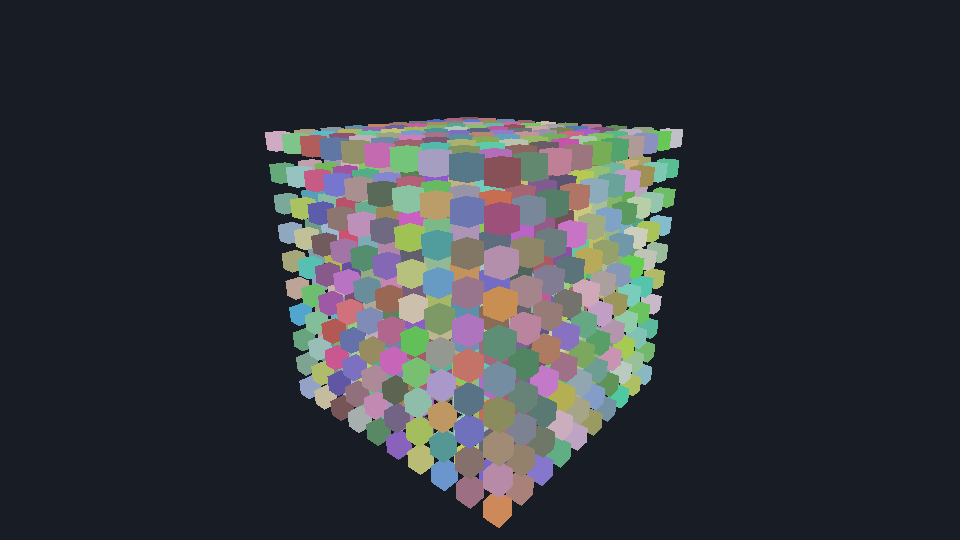
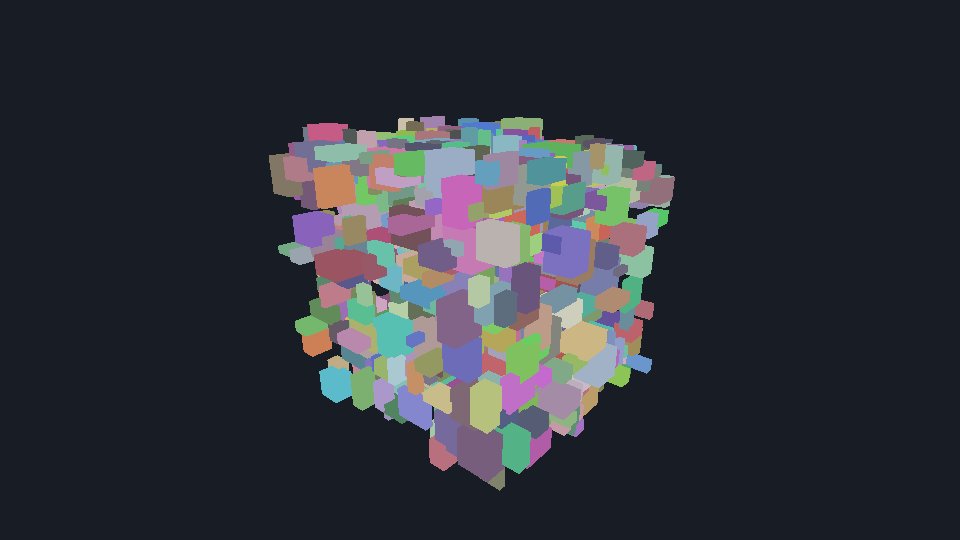
Scatter the boxes at random, with varied sizes
A regular grid flatters occlusion culling: every occluder is the same size and
sits exactly behind the one in front, which is the easiest case there is. A
thousand boxes at random positions with random per-axis sizes gives irregular
gaps, and those are what the technique actually has to cope with. The seed is
fixed, because the benchmark compares medians between runs and a clock-seeded
layout would move the numbers with no way to tell that from a real change.

It changes the picture in both directions. There is more mutual occlusion, so
the per-object pass now culls 77% rather than 66%. But irregular sizes make nine
corner samples a worse proxy for a box, so what it wrongly discards goes from 3%
of the screen to 7.5%, and each pass costs about a third more because fewer
samples exit early and the BVH is less tidy.

The slab view replaces the old middle-layer one, which indexed geomIDs assuming
a grid and means nothing now; it takes the boxes whose centre falls in a band
around the middle instead.

One thing this scene surfaced that the grid did not: the single-ray and 8-wide
paths disagree, reproducibly, on two boxes out of a thousand. They are separate
kernels inside Embree and they differ on grazing hits. It does not matter for
culling, but the packet path is not a drop-in replacement where the answer has to
be bit-identical.

Changed region(s): [[0.25, 0.2074, 0.7188, 0.9778]]

diff --git a/OcclusionCulling/Program.cs b/OcclusionCulling/Program.cs
@@ -12,9 +12,11 @@ namespace OcclusionCulling
 	/// </summary>
 	internal static class Program
 	{
-		private const int SideCount = 10;                 // 10^3 = 1000 boxes
-		private const float BoxSize = 1.0f;
-		private const float Spacing = 1.8f;               // centre-to-centre, in box sizes
+		private const int BoxCount = 1000;
+		private const float VolumeExtent = 9.0f;          // half the side of the cube they fill
+		private const float MinBoxSize = 0.4f;
+		private const float MaxBoxSize = 2.4f;
+		private const int Seed = 20260811;                // fixed, so the scene is the same every run
 
 		private const int CullWidth = 320;                // resolution of the visibility-buffer pass
 		private const int CullHeight = 180;
@@ -28,11 +30,11 @@ namespace OcclusionCulling
 		{
 			bool images = args.Contains("--images");
 
-			using var scene = new Scene(SideCount, BoxSize, Spacing);
+			using var scene = new Scene(BoxCount, VolumeExtent, MinBoxSize, MaxBoxSize, Seed);
 
-			// Outside the grid, looking at its centre, close enough that the near faces hide
-			// most of the interior. That is the situation occlusion culling exists for.
-			float extent = BoxSize * Spacing * (SideCount - 1) * 0.5f;
+			// Outside the cloud, looking at its centre, close enough that the near boxes hide
+			// much of what is behind them. That is the situation occlusion culling exists for.
+			float extent = VolumeExtent;
 			var camera = new Camera(
 				position: new Vector3(extent * 2.5f, extent * 1.4f, extent * 2.9f),
 				target: Vector3.Zero,
@@ -41,7 +43,7 @@ namespace OcclusionCulling
 				near: 0.1f,
 				far: extent * 20.0f);
 
-			Console.WriteLine($"Scene          : {scene.BoxCount:N0} boxes ({SideCount}x{SideCount}x{SideCount}), {scene.TriangleCount:N0} triangles, one geometry each");
+			Console.WriteLine($"Scene          : {scene.BoxCount:N0} boxes scattered at random, sizes {MinBoxSize}..{MaxBoxSize}, {scene.TriangleCount:N0} triangles, one geometry each");
 			Console.WriteLine($"Logical cores  : {Environment.ProcessorCount}");
 			Console.WriteLine($"Widest packet  : {scene.MaxPacketWidth} rays (asked of the device, not assumed)");
 			Console.WriteLine();
@@ -237,21 +239,20 @@ namespace OcclusionCulling
 		private const uint Embree_INVALID = uint.MaxValue;
 
 		/// <summary>
-		/// A horizontal slice through the middle layer of the grid, seen from above. Boxes the
-		/// pass kept are bright, boxes it discarded are dark, and the camera is the cross.
+		/// A horizontal slab through the middle of the cloud, seen from above. Boxes the pass
+		/// kept are bright, boxes it discarded are dark, and the camera is the cross.
 		/// </summary>
 		/// <remarks>
-		/// One layer, not all ten. Projecting the whole grid onto the ground plane stacks every
-		/// layer into the same cell, so the picture would show one arbitrary layer's verdict and
-		/// look like the culling was deciding at random.
+		/// A slab rather than everything: projecting the whole cloud onto the ground plane piles
+		/// boxes from every height into the same pixels, and the picture would look like the
+		/// culling was deciding at random.
 		/// </remarks>
 		private static void WriteSlice(Scene scene, Camera camera, bool[] visible, string path)
 		{
 			const int Width = 720;
 			const int Height = 720;
 
-			float extent = BoxSize * Spacing * (SideCount - 1) * 0.5f;
-			float span = extent * 3.2f;
+			float span = scene.Extent * 3.2f;
 
 			var pixels = new byte[Width * Height * 3];
 			for (int i = 0; i < pixels.Length; i += 3)
@@ -259,13 +260,13 @@ namespace OcclusionCulling
 				pixels[i] = 18; pixels[i + 1] = 20; pixels[i + 2] = 26;
 			}
 
-			// Only the middle layer: geomIDs run x fastest, then y, then z.
-			int layer = SideCount / 2;
-			int perLayer = SideCount;
+			// Only boxes whose centre falls in the middle band of the volume.
+			float band = scene.Extent * 0.18f;
 
 			for (int box = 0; box < scene.BoxCount; box++)
 			{
-				if ((box / perLayer) % SideCount != layer)
+				float centreY = (scene.Min[box].Y + scene.Max[box].Y) * 0.5f;
+				if (MathF.Abs(centreY) > band)
 				{
 					continue;
 				}

diff --git a/OcclusionCulling/Scene.cs b/OcclusionCulling/Scene.cs
@@ -14,12 +14,21 @@ namespace OcclusionCulling
 	{
 		private Device device;
 
-		public Scene(int sideCount, float boxSize, float spacing)
+		/// <param name="boxCount">How many boxes to scatter.</param>
+		/// <param name="extent">Half the side of the cube they are scattered in.</param>
+		/// <param name="minSize">Smallest box edge.</param>
+		/// <param name="maxSize">Largest box edge.</param>
+		/// <param name="seed">
+		/// Fixed, and it has to be. The benchmark compares medians between runs, so the scene
+		/// must be the same scene every time; a clock-seeded layout would move the numbers around
+		/// and there would be no way to tell that from a real change.
+		/// </param>
+		public Scene(int boxCount, float extent, float minSize, float maxSize, int seed)
 		{
-			this.SideCount = sideCount;
-			this.BoxCount = sideCount * sideCount * sideCount;
-			this.Min = new Vector3[this.BoxCount];
-			this.Max = new Vector3[this.BoxCount];
+			this.BoxCount = boxCount;
+			this.Extent = extent;
+			this.Min = new Vector3[boxCount];
+			this.Max = new Vector3[boxCount];
 
 			this.device = Embree.NewDevice(null);
 			if (this.device.IsNull)
@@ -35,24 +44,27 @@ namespace OcclusionCulling
 			Embree.SetSceneFlags(this.Handle, SceneFlags.None);
 			Embree.SetSceneBuildQuality(this.Handle, BuildQuality.High);
 
-			float half = boxSize * 0.5f;
-			float step = boxSize * spacing;
-			float origin = -step * (sideCount - 1) * 0.5f;
+			// Scattered at random through the volume, each with its own size along each axis, so
+			// no two boxes are alike and nothing lines up. A regular grid makes occlusion culling
+			// look better than it is: every occluder is the same size and sits exactly behind the
+			// one in front, which is the easiest case there is.
+			var random = new Random(seed);
 
-			int index = 0;
-			for (int z = 0; z < sideCount; z++)
+			for (int i = 0; i < boxCount; i++)
 			{
-				for (int y = 0; y < sideCount; y++)
-				{
-					for (int x = 0; x < sideCount; x++)
-					{
-						var center = new Vector3(origin + (x * step), origin + (y * step), origin + (z * step));
-						this.Min[index] = center - new Vector3(half);
-						this.Max[index] = center + new Vector3(half);
-						this.AddBox(this.Min[index], this.Max[index]);
-						index++;
-					}
-				}
+				var centre = new Vector3(
+					Lerp(random, -extent, extent),
+					Lerp(random, -extent, extent),
+					Lerp(random, -extent, extent));
+
+				var half = new Vector3(
+					Lerp(random, minSize, maxSize),
+					Lerp(random, minSize, maxSize),
+					Lerp(random, minSize, maxSize)) * 0.5f;
+
+				this.Min[i] = centre - half;
+				this.Max[i] = centre + half;
+				this.AddBox(this.Min[i], this.Max[i]);
 			}
 
 			Embree.CommitScene(this.Handle);
@@ -83,8 +95,8 @@ namespace OcclusionCulling
 			: Embree.GetDeviceProperty(this.device, DeviceProperty.NativeRay4Supported) != 0 ? 4
 			: 1;
 
-		/// <summary>Gets the number of boxes per axis.</summary>
-		public int SideCount { get; }
+		/// <summary>Gets half the side of the cube the boxes are scattered in.</summary>
+		public float Extent { get; }
 
 		/// <summary>Gets the total number of boxes, which is also the number of geomIDs.</summary>
 		public int BoxCount { get; }
@@ -97,6 +109,9 @@ namespace OcclusionCulling
 
 		/// <summary>Gets the total triangle count.</summary>
 		public int TriangleCount => this.BoxCount * 12;
+
+		private static float Lerp(Random random, float min, float max) =>
+			min + ((max - min) * (float)random.NextDouble());
 
 		public void Dispose()
 		{

diff --git a/OcclusionCulling/README.md b/OcclusionCulling/README.md
@@ -6,9 +6,16 @@ else.
 
 ![The scene](docs/scene.png)
 
-A 10×10×10 grid of boxes — 1,000 objects, 12,000 triangles, one Embree geometry each so every
-box has its own `geomID`. The camera sits outside looking in, which is the situation occlusion
-culling exists for: the outer shell hides most of the interior.
+A thousand boxes scattered at random through a cube, each with its own size on each axis, 12,000
+triangles, one Embree geometry per box so every one has its own `geomID`. The layout comes from a
+fixed seed, so the scene is the same scene on every run — the benchmark compares medians between
+runs and a clock-seeded layout would move the numbers with no way to tell that from a real
+change.
+
+Scattered rather than gridded on purpose. A regular grid flatters occlusion culling: every
+occluder is the same size and sits exactly behind the one in front, which is the easiest case
+there is. Random sizes and positions give irregular gaps, and those are what the technique
+actually has to cope with.
 
 ## The two passes
 
@@ -31,30 +38,34 @@ Each comes in a single-ray and an 8-wide packet form.
 ```
 Method                                        median      mean       rays   visible  culled   miss  screen
 frustum only                                 0.004ms   0.004ms          0     1,000    0.0%      0   0.00%
-per-object, single ray                       0.158ms   0.155ms      7,165       342   65.8%    163   3.07%
-per-object, 8-wide packets                   0.218ms   0.217ms      9,000       342   65.8%    163   3.07%
-visibility buffer 320x180, single ray        0.623ms   0.636ms     57,600       457   54.3%     48   0.16%
-visibility buffer 320x180, 8-wide packets    0.626ms   0.636ms     57,600       457   54.3%     48   0.16%
+per-object, single ray                       0.205ms   0.204ms      7,861       229   77.1%    119   7.45%
+per-object, 8-wide packets                   0.349ms   0.373ms      9,000       231   76.9%    117   7.14%
+visibility buffer 320x180, single ray        0.644ms   0.652ms     57,600       316   68.4%     30   0.15%
+visibility buffer 320x180, 8-wide packets    0.661ms   0.680ms     57,600       316   68.4%     30   0.15%
 ```
 
-`miss` counts visible boxes the pass discarded — the ones that would pop. `screen` is how much
-of the covered screen area those boxes actually held, which is the number that matters: in a
-grid this dense most of what is technically visible is visible through a gap a pixel or two
-wide.
+`miss` counts visible boxes the pass discarded — the ones that would pop. `screen` is how much of
+the covered screen area those boxes actually held, which is the number that matters: much of what
+is technically visible is visible through a gap a pixel or two wide.
 
-**The per-object pass costs 0.16 ms and removes two thirds of the draw calls.** Against a 16.6 ms
-frame that is about 1%, so it pays for itself as soon as the objects it removes cost more than
-that to draw.
+**The per-object pass costs 0.21 ms and removes three quarters of the draw calls.** Against a
+16.6 ms frame that is a bit over 1%, so it pays for itself as soon as the objects it removes cost
+more than that to draw.
+
+The two passes trade against each other rather than one being better. Per-object is three times
+cheaper and culls more (77% against 68%), but discards boxes holding 7.5% of the screen. The
+visibility buffer misses almost nothing — 0.15% — and is the one to reach for if popping matters
+more than the milliseconds.
 
 ![Which boxes survived](docs/verdict.png)
 
-Green is a box the per-object pass kept, red one it discarded. The red is all slivers showing
-through gaps — 163 boxes, but 3% of the screen.
+Green is a box the per-object pass kept, red one it discarded. Every red patch is a fragment
+showing through a gap between nearer boxes.
 
-![A slice through the middle layer](docs/slice.png)
+![A slab through the middle of the cloud](docs/slice.png)
 
-The middle layer seen from above, camera at the cross. The shell facing the camera survives, the
-interior does not.
+The middle slab seen from above, camera at the cross. Bright boxes survived, dark ones did not:
+the culling keeps the side facing the camera and throws away what is behind it.
 
 ## Things worth knowing before copying this
 
@@ -65,21 +76,25 @@ unrelated with no hint of the real cause. The binaries this package ships are bu
 `EMBREE_MAX_ISA=AVX2`, which tops out at 8 — 16 needs AVX-512. The sample prints the width it
 found.
 
-**Packets are not automatically faster.** Here they are slower for the per-object pass, because
-filling eight lanes means giving up the early exit: the moment one sample proves a box visible
-the rest are pointless, but the lanes are already committed. 9,000 rays instead of 7,165, and
-the SIMD saving does not cover the difference. For the visibility buffer, where all rays are
-needed anyway, they come out level. Both results are worth having; neither was obvious in
-advance.
+**Packets are not automatically faster.** Here they are 70% *slower* for the per-object pass,
+because filling eight lanes means giving up the early exit: the moment one sample proves a box
+visible the rest are pointless, but the lanes are already committed. 9,000 rays instead of 7,861,
+and the SIMD saving does not cover the difference. For the visibility buffer, where all the rays
+are needed anyway, the two come out level. Neither result was obvious in advance.
+
+**The two traversal paths do not agree exactly.** Single-ray finds 229 boxes visible, 8-wide
+finds 231, reproducibly. They are separate kernels inside Embree and they disagree on grazing
+hits. Two boxes in a thousand does not matter for culling, but it does mean the packet path is
+not a drop-in replacement anywhere the answer has to be bit-identical.
 
 **The obvious formulation of the per-object test is wrong.** Aiming an occlusion ray at a sample
 point on a box and stopping just short of it has the box occlude itself: the point is on its
-surface, so its own front face is in the way for all but a few silhouette corners. This asks
-what the ray hits *first* instead, which costs more per ray and answers the question actually
-being asked.
+surface, so its own front face is in the way for all but a few silhouette corners. This asks what
+the ray hits *first* instead, which costs more per ray and answers the question actually being
+asked.
 
-**Ray structures must be aligned.** `RTCRay8` wants 32 bytes, `RTCRay16` wants 64, and a C#
-local guarantees neither. Every buffer here comes from `NativeMemory.AlignedAlloc`.
+**Ray structures must be aligned.** `RTCRay8` wants 32 bytes, `RTCRay16` wants 64, and a C# local
+guarantees neither. Every buffer here comes from `NativeMemory.AlignedAlloc`.
 
 ## Running it
 
@@ -88,5 +103,5 @@ dotnet run --project OcclusionCulling -c Release
 ```
 
 `--images` also writes `scene.png`, `verdict.png` and `slice.png` to the working directory. The
-PNG writer is about sixty lines in `Png.cs`, which keeps the sample free of dependencies and
-able to run on every RID the binding ships; `System.Drawing` would have pinned it to Windows.
+PNG writer is about sixty lines in `Png.cs`, which keeps the sample free of dependencies and able
+to run on every RID the binding ships; `System.Drawing` would have pinned it to Windows.

diff --git a/README.md b/README.md
@@ -77,7 +77,7 @@ HelloEmbree/                   Sample: CPU ray tracer drawn with the Evergine lo
 OcclusionCulling/              Sample: what a CPU occlusion culling pass costs
 ```
 
-[OcclusionCulling](OcclusionCulling/README.md) measures a visibility pass over a thousand boxes
+[OcclusionCulling](OcclusionCulling/README.md) measures a visibility pass over a thousand boxes scattered at random
 two ways — per-object rays and a visibility buffer — each with single rays and 8-wide packets,
 and reports both the cost and how much of the screen each one gets wrong. It is a console app
 with no dependencies, so unlike `HelloEmbree` it runs on every RID this package ships.
